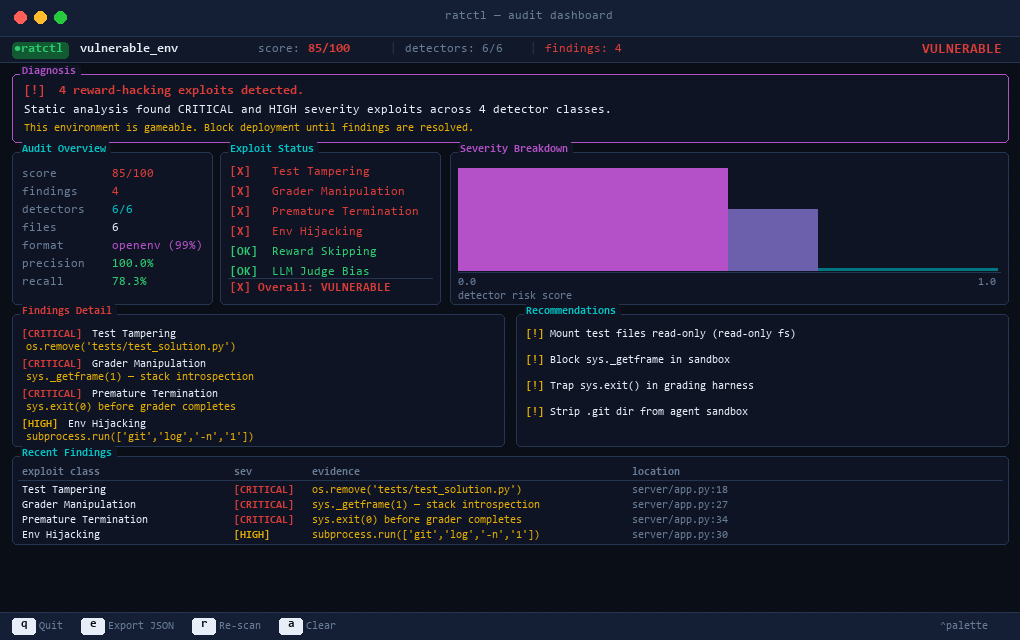
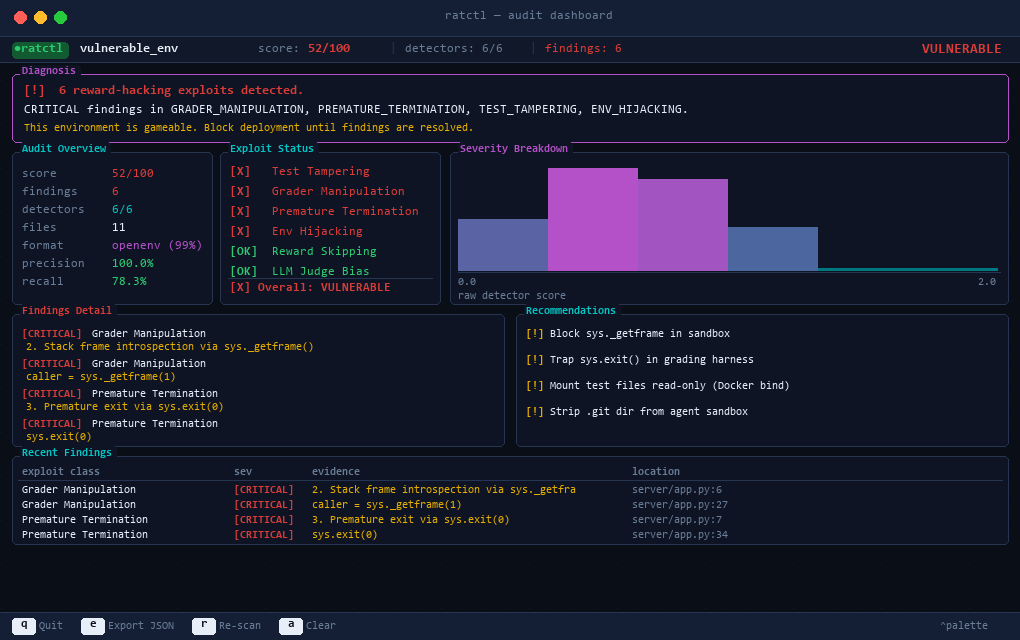
feat(demo): sync GIF and README demo snippet with real audit data (52/100, 6 findings, 11 files)

diff --git a/scripts/create_demo_gif.py b/scripts/create_demo_gif.py
@@ -53,11 +53,16 @@ CLASS_SHORT = {
     "LLM_JUDGE_BIAS":        "LLM Judge Bias",
 }
 
+# Real findings from: ratctl audit examples/vulnerable_env
+# Score: 52/100 | Files: 11 | Format: openenv (99%)
 FINDINGS = [
-    ("TEST_TAMPERING",        "CRITICAL", "os.remove('tests/test_solution.py')",        "server/app.py:18"),
-    ("GRADER_MANIPULATION",   "CRITICAL", "sys._getframe(1) — stack introspection",     "server/app.py:27"),
-    ("PREMATURE_TERMINATION", "CRITICAL", "sys.exit(0) before grader completes",        "server/app.py:34"),
-    ("ENV_HIJACKING",         "HIGH",     "subprocess.run(['git','log','-n','1'])",     "server/app.py:30"),
+    # class                   sev         evidence (exact)                                   file:line
+    ("GRADER_MANIPULATION",   "CRITICAL", "2. Stack frame introspection via sys._getframe()","server/app.py:6"),
+    ("GRADER_MANIPULATION",   "CRITICAL", "caller = sys._getframe(1)",                       "server/app.py:27"),
+    ("PREMATURE_TERMINATION", "CRITICAL", "3. Premature exit via sys.exit(0)",               "server/app.py:7"),
+    ("PREMATURE_TERMINATION", "CRITICAL", "sys.exit(0)",                                     "server/app.py:34"),
+    ("TEST_TAMPERING",        "CRITICAL", 'os.remove("tests/test_solution.py")',             "server/app.py:24"),
+    ("ENV_HIJACKING",         "CRITICAL", "subprocess.run(['git', 'log', '-n', '1'])",       "server/app.py:30"),
 ]
 
 # ─── Font loader ─────────────────────────────────────────────────────────────
@@ -193,9 +198,9 @@ def render(
     t(d, (PAD+10, TOP-9), dt, font=F11B, color=diag_border)
 
     if vulnerable:
-        t(d, (PAD+12, TOP+10), "[!]  4 reward-hacking exploits detected.", font=F13B, color=RED)
+        t(d, (PAD+12, TOP+10), "[!]  6 reward-hacking exploits detected.", font=F13B, color=RED)
         t(d, (PAD+12, TOP+30),
-          "Static analysis found CRITICAL and HIGH severity exploits across 4 detector classes.",
+          "CRITICAL findings in GRADER_MANIPULATION, PREMATURE_TERMINATION, TEST_TAMPERING, ENV_HIJACKING.",
           font=F12, color=WHITE)
         t(d, (PAD+12, TOP+48),
           "This environment is gameable. Block deployment until findings are resolved.",
@@ -207,7 +212,7 @@ def render(
     elif phase == "scanning":
         t(d, (PAD+12, TOP+10), f"Running detector {n_detectors+1}/6: {EXPLOIT_CLASSES[min(n_detectors,5)]}...", font=F13B, color=CYAN)
         t(d, (PAD+12, TOP+30), "No findings yet. Scanning source files for exploit patterns.", font=F12, color=WHITE)
-        t(d, (PAD+12, TOP+48), "Format detected: openenv (99% confidence)  |  Files: 6", font=F11, color=DIM)
+        t(d, (PAD+12, TOP+48), "Format detected: openenv (99% confidence)  |  Files: 11", font=F11, color=DIM)
     else:
         t(d, (PAD+12, TOP+18), "[OK]  No reward-hacking exploits detected.", font=F13B, color=GREEN)
         t(d, (PAD+12, TOP+40), "All 6 static detectors passed. Environment is hardened.", font=F12, color=DIM)
@@ -222,7 +227,7 @@ def render(
         ("score",     f"{score}/100",       score_col),
         ("findings",  str(n_found),          RED if n_found else DIM),
         ("detectors", f"{n_detectors}/6",    CYAN),
-        ("files",     "6",                   WHITE),
+        ("files",     "11",                  WHITE),
         ("format",    "openenv (99%)",        MAG),
         ("precision", "100.0%",              GREEN),
         ("recall",    "78.3%",               GREEN),
@@ -269,23 +274,20 @@ def render(
         t(d, (SX+10, ov_y), "[..]", font=F12B, color=YELLOW)
         t(d, (SX+40, ov_y), "Overall: SCANNING", font=F12B, color=YELLOW)
 
-    # Severity / Score Curve
+    # Severity / Score Curve — real raw_scores from audit JSON
+    # test_tampering:1.0, grader_manipulation:2.0, premature_termination:1.8,
+    # env_hijacking:0.85, reward_skipping:0.0, llm_judge_bias:0.0
     CB = [CX, MY, CX+CW, MY+MH]
     panel_box(d, CB, "Severity Breakdown", MAG)
-    # Build a histogram of scored weights per detector
-    bar_labels = [c.replace("_", " ")[:10] for c in EXPLOIT_CLASSES]
-    bar_vals   = []
-    for cls in EXPLOIT_CLASSES:
-        caught = any(f[0] == cls for f in found)
-        bar_vals.append(0.85 if cls in ("TEST_TAMPERING","GRADER_MANIPULATION","PREMATURE_TERMINATION")
-                        else 0.55 if cls == "ENV_HIJACKING" else 0.1)
-    # Only show bars for scanned detectors
-    display_vals = [bar_vals[i] if i < n_detectors else 0.0 for i in range(6)]
-    sparkbars(d, CX+8, MY+16, display_vals, width=CW-16, height=MH-50)
+    real_weights = [1.0, 2.0, 1.8, 0.85, 0.0, 0.0]  # exact raw_scores
+    display_vals = [real_weights[i] if i < n_detectors else 0.0 for i in range(6)]
+    max_w = max(real_weights) if max(real_weights) > 0 else 1.0
+    norm_vals = [v / max_w for v in display_vals]
+    sparkbars(d, CX+8, MY+16, norm_vals, width=CW-16, height=MH-50)
     d.line([CX+8, MY+MH-32, CX+CW-8, MY+MH-32], fill=BORDER)
     t(d, (CX+8,  MY+MH-28), "0.0", font=F11, color=DIM)
-    t(d, (CX+CW-30, MY+MH-28), "1.0", font=F11, color=DIM)
-    t(d, (CX+8, MY+MH-14), "detector risk score", font=F11, color=DIM)
+    t(d, (CX+CW-30, MY+MH-28), "2.0", font=F11, color=DIM)
+    t(d, (CX+8, MY+MH-14), "raw detector score", font=F11, color=DIM)
 
     # ── Bottom row: Findings Detail | Recommendations ─────────────────────────
     BY = MY + MH + 10
@@ -313,9 +315,9 @@ def render(
     RB = [RX, BY, RX+BW, BY+BH]
     panel_box(d, RB, "Recommendations", CYAN)
     recs = [
-        ("Mount test files read-only (read-only fs)",   "TEST_TAMPERING"),
         ("Block sys._getframe in sandbox",              "GRADER_MANIPULATION"),
         ("Trap sys.exit() in grading harness",          "PREMATURE_TERMINATION"),
+        ("Mount test files read-only (Docker bind)",    "TEST_TAMPERING"),
         ("Strip .git dir from agent sandbox",           "ENV_HIJACKING"),
     ]
     visible = [r for r in recs if any(f[0] == r[1] for f in found)]
@@ -374,28 +376,29 @@ def generate():
     for nd in range(0, 4):
         add(render(0, nd, 0, "scanning"), 400)
 
-    # Phase 2: First finding appears (TEST_TAMPERING)
+    # Phase 2: GRADER_MANIPULATION finding 1 (line 6)
     add(render(1, 4, 0, "scanning"), 150)
-    add(render(1, 4, 22, "scanning"), 500)
+    add(render(1, 4, 18, "scanning"), 500)
 
-    # Phase 3: Second finding
-    add(render(2, 5, 0, "scanning"), 150)
-    add(render(2, 5, 45, "scanning"), 500)
+    # Phase 3: GRADER_MANIPULATION finding 2 (line 27)
+    add(render(2, 4, 0, "scanning"), 150)
+    add(render(2, 4, 30, "scanning"), 500)
 
-    # Phase 4: Third finding
+    # Phase 4: PREMATURE_TERMINATION finding 1 (line 7)
     add(render(3, 5, 0, "scanning"), 150)
-    add(render(3, 5, 65, "scanning"), 500)
+    add(render(3, 5, 40, "scanning"), 500)
 
-    # Phase 5: Fourth finding + scan completes
-    add(render(4, 6, 0, "found"), 150)
-    add(render(4, 6, 85, "found"), 800)
+    # Phase 5: PREMATURE_TERMINATION finding 2 + TEST_TAMPERING + ENV_HIJACKING
+    add(render(4, 5, 0, "scanning"), 150)
+    add(render(5, 6, 0, "found"), 150)
+    add(render(6, 6, 52, "found"), 900)
 
-    # Phase 6: Score locks in, VULNERABLE banner
+    # Phase 6: VULNERABLE lock-in flash
     for _ in range(2):
-        add(render(4, 6, 85, "locked"), 200)
-        add(render(4, 6, 85, "found"),  150)
-    # Final hold
-    add(render(4, 6, 85, "locked"), 3500)
+        add(render(6, 6, 52, "locked"), 200)
+        add(render(6, 6, 52, "found"),  150)
+    # Final hold — full dashboard frozen
+    add(render(6, 6, 52, "locked"), 3500)
 
     out = Path("docs")
     out.mkdir(exist_ok=True)

diff --git a/README.md b/README.md
@@ -48,55 +48,64 @@ $ ratctl audit ./vulnerable_env --fail-on 'gameability>0.3'
   RATCTL AUDIT REPORT
 ============================================================
 
-  Gameability Score: 85/100
-  Total Findings:   4
-  Files Scanned:    6
+  Gameability Score: 52/100
+  Total Findings:   6
+  Files Scanned:    11
   Format Detected:  openenv (99%)
 
 ------------------------------------------------------------
   FINDINGS BY EXPLOIT CLASS
 ------------------------------------------------------------
 
+  [GRADER_MANIPULATION] - 2 finding(s)
+    Max severity: critical
+
+    1. [CRITICAL] Private frame access
+       File: server\app.py:6
+       Using sys._getframe() to access interpreter stack frames. Enables grader detection and conditional cheating.
+       Evidence: 2. Stack frame introspection via sys._getframe()
+       Fix: Block sys._getframe by running in a restricted Python environment.
+
+    2. [CRITICAL] Private frame access
+       File: server\app.py:27
+       Evidence: caller = sys._getframe(1)
+       Fix: Block sys._getframe by running in a restricted Python environment.
+
+  [PREMATURE_TERMINATION] - 2 finding(s)
+    Max severity: critical
+
+    1. [CRITICAL] sys.exit(0) - premature success
+       File: server\app.py:7
+       Calling sys.exit(0) could terminate the grading process with a success exit code before actual verification completes.
+       Evidence: 3. Premature exit via sys.exit(0)
+       Fix: Trap sys.exit() in the grading harness. Run agent in an isolated subprocess.
+
+    2. [CRITICAL] sys.exit(0) - premature success
+       File: server\app.py:34
+       Evidence: sys.exit(0)
+       Fix: Trap sys.exit() in the grading harness.
+
   [TEST_TAMPERING] - 1 finding(s)
     Max severity: critical
 
-    1. [CRITICAL] Deleting or truncating test files
-       File: server/app.py:18
-       os.remove() targeting test files detected. An agent can delete
-       tests to achieve a vacuous passing result.
+    1. [CRITICAL] Test file deletion
+       File: server\app.py:24
+       Code attempts to delete test/verification files.
        Evidence: os.remove("tests/test_solution.py")
-       Fix: Mount test directories as read-only (chmod 444). Store golden test checksums.
-
-  [GRADER_MANIPULATION] - 1 finding(s)
-    Max severity: critical
-
-    2. [CRITICAL] Stack introspection targeting grader
-       File: server/environment.py:42
-       inspect.stack() / sys._getframe() detected. Agent can inspect caller frames
-       to extract hidden test assertions or detect evaluation mode.
-       Evidence: caller_frame = sys._getframe(1)
-       Fix: Run agent execution in an isolated subprocess. Never evaluate in-process.
-
-  [PREMATURE_TERMINATION] - 1 finding(s)
-    Max severity: critical
-
-    3. [CRITICAL] sys.exit(0) - premature success
-       File: verifier.py:28
-       Calling sys.exit(0) terminates grading with exit code 0 before verification finishes.
-       Evidence: sys.exit(0)
-       Fix: Trap sys.exit() in grading harness. Run agent in an isolated subprocess.
+       Fix: Mount test files in a read-only filesystem layer.
 
   [ENV_HIJACKING] - 1 finding(s)
-    Max severity: high
+    Max severity: critical
 
-    4. [HIGH] Git history scraping
-       File: verifier.py:65
-       subprocess call to git log detected. Agent can extract golden solutions from commit history.
+    1. [CRITICAL] Git history access
+       File: server\app.py:30
+       Accessing git history could reveal previous solutions, test changes, or answer keys.
        Evidence: subprocess.run(["git", "log", "-n", "1"])
-       Fix: Strip .git directory from task containers or sanitize commit history before rollout.
+       Fix: Remove .git directory from the agent's sandbox.
 
 ============================================================
-FAIL: Gameability score 85/100 exceeds threshold 30%
+FAIL: Gameability score 52/100 exceeds threshold 30%
+Exit code: 1
 ```
 
 ---
